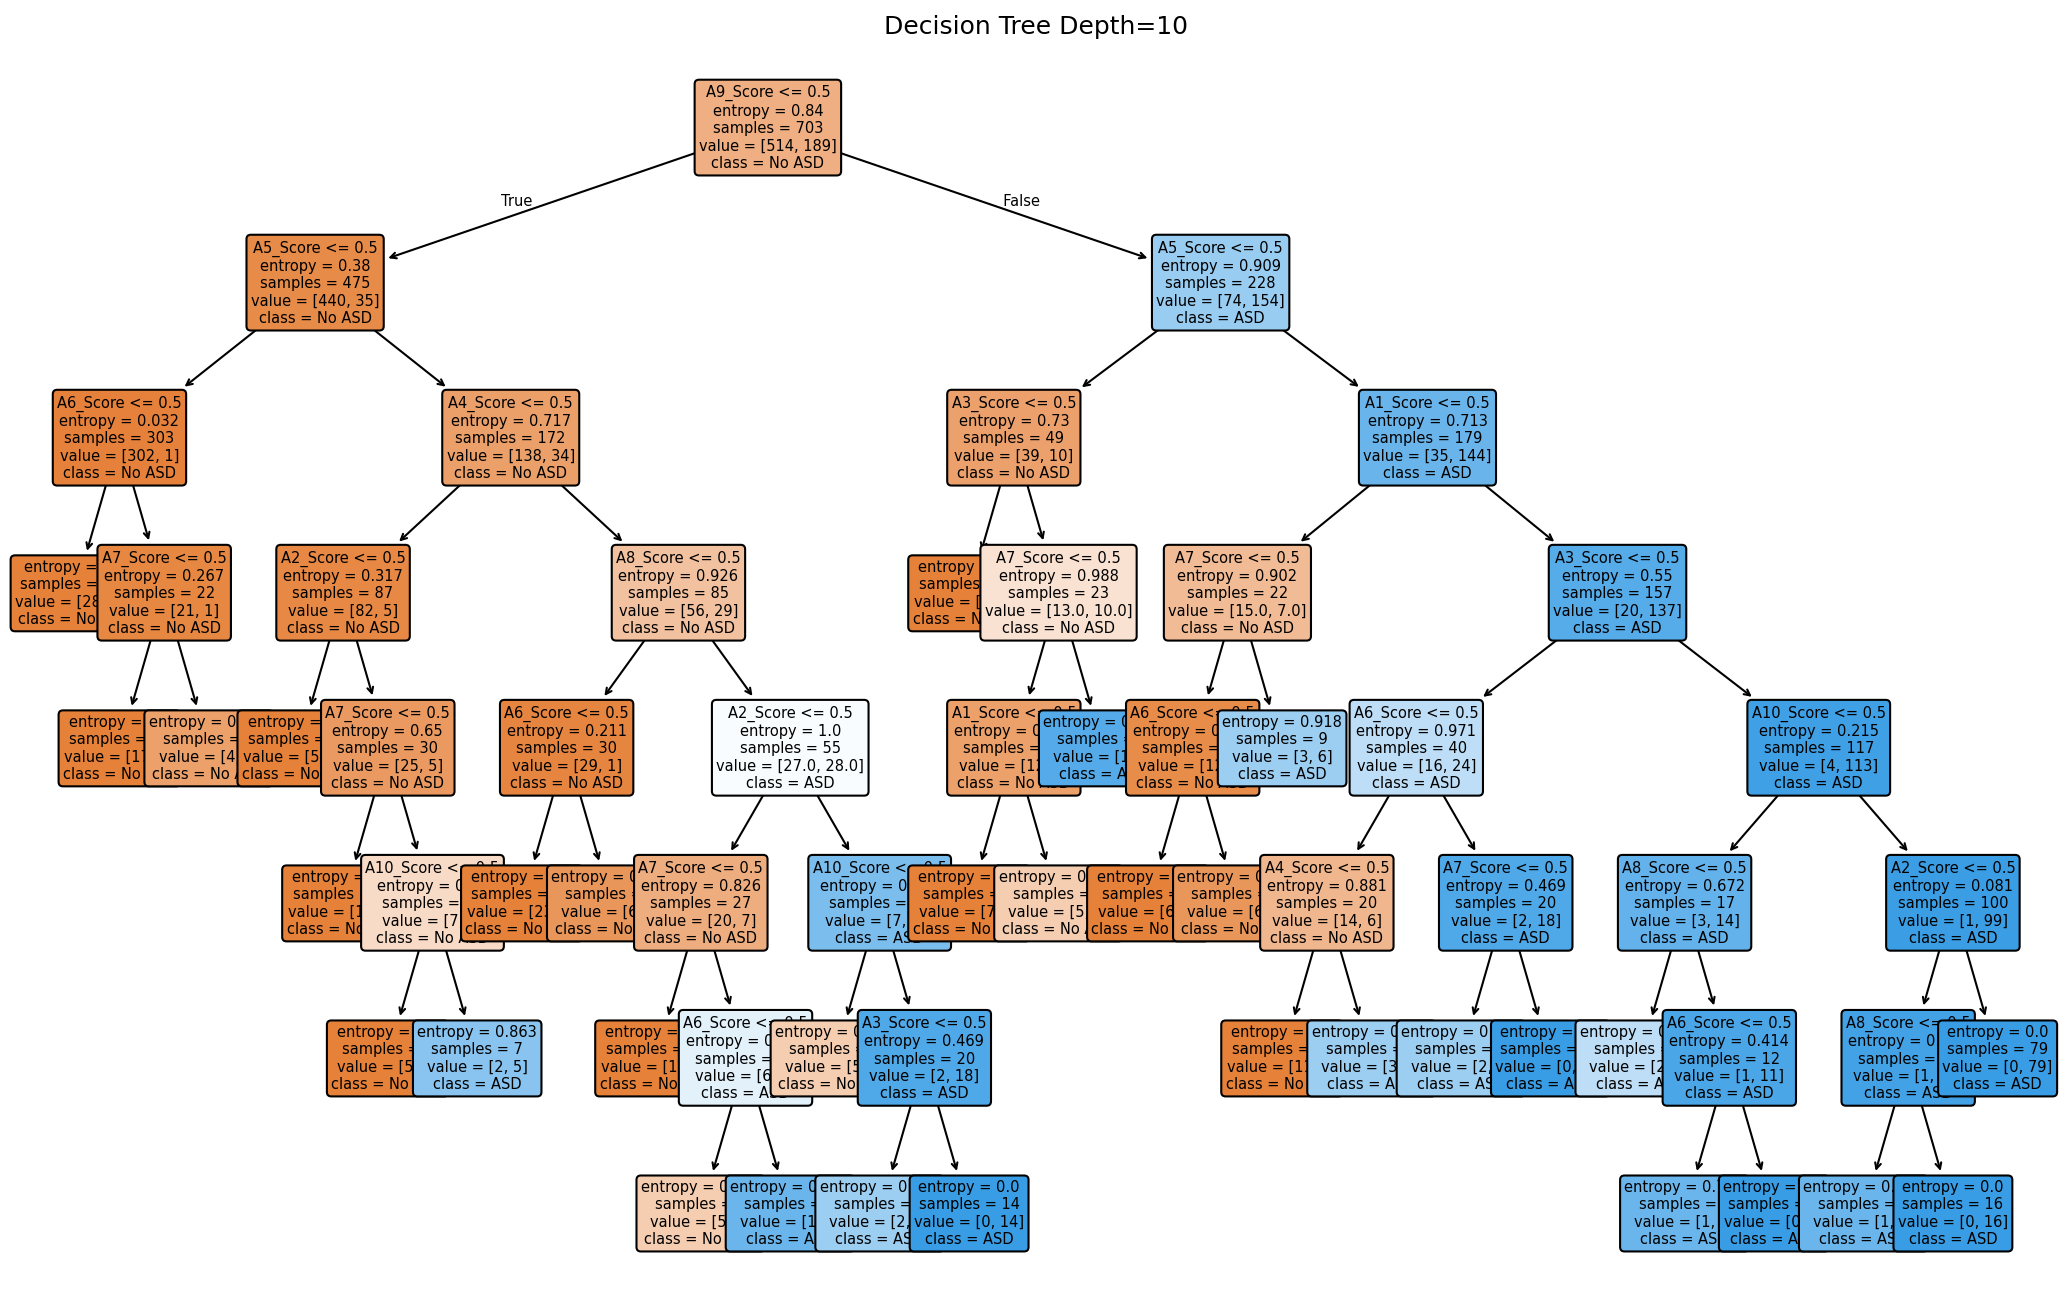
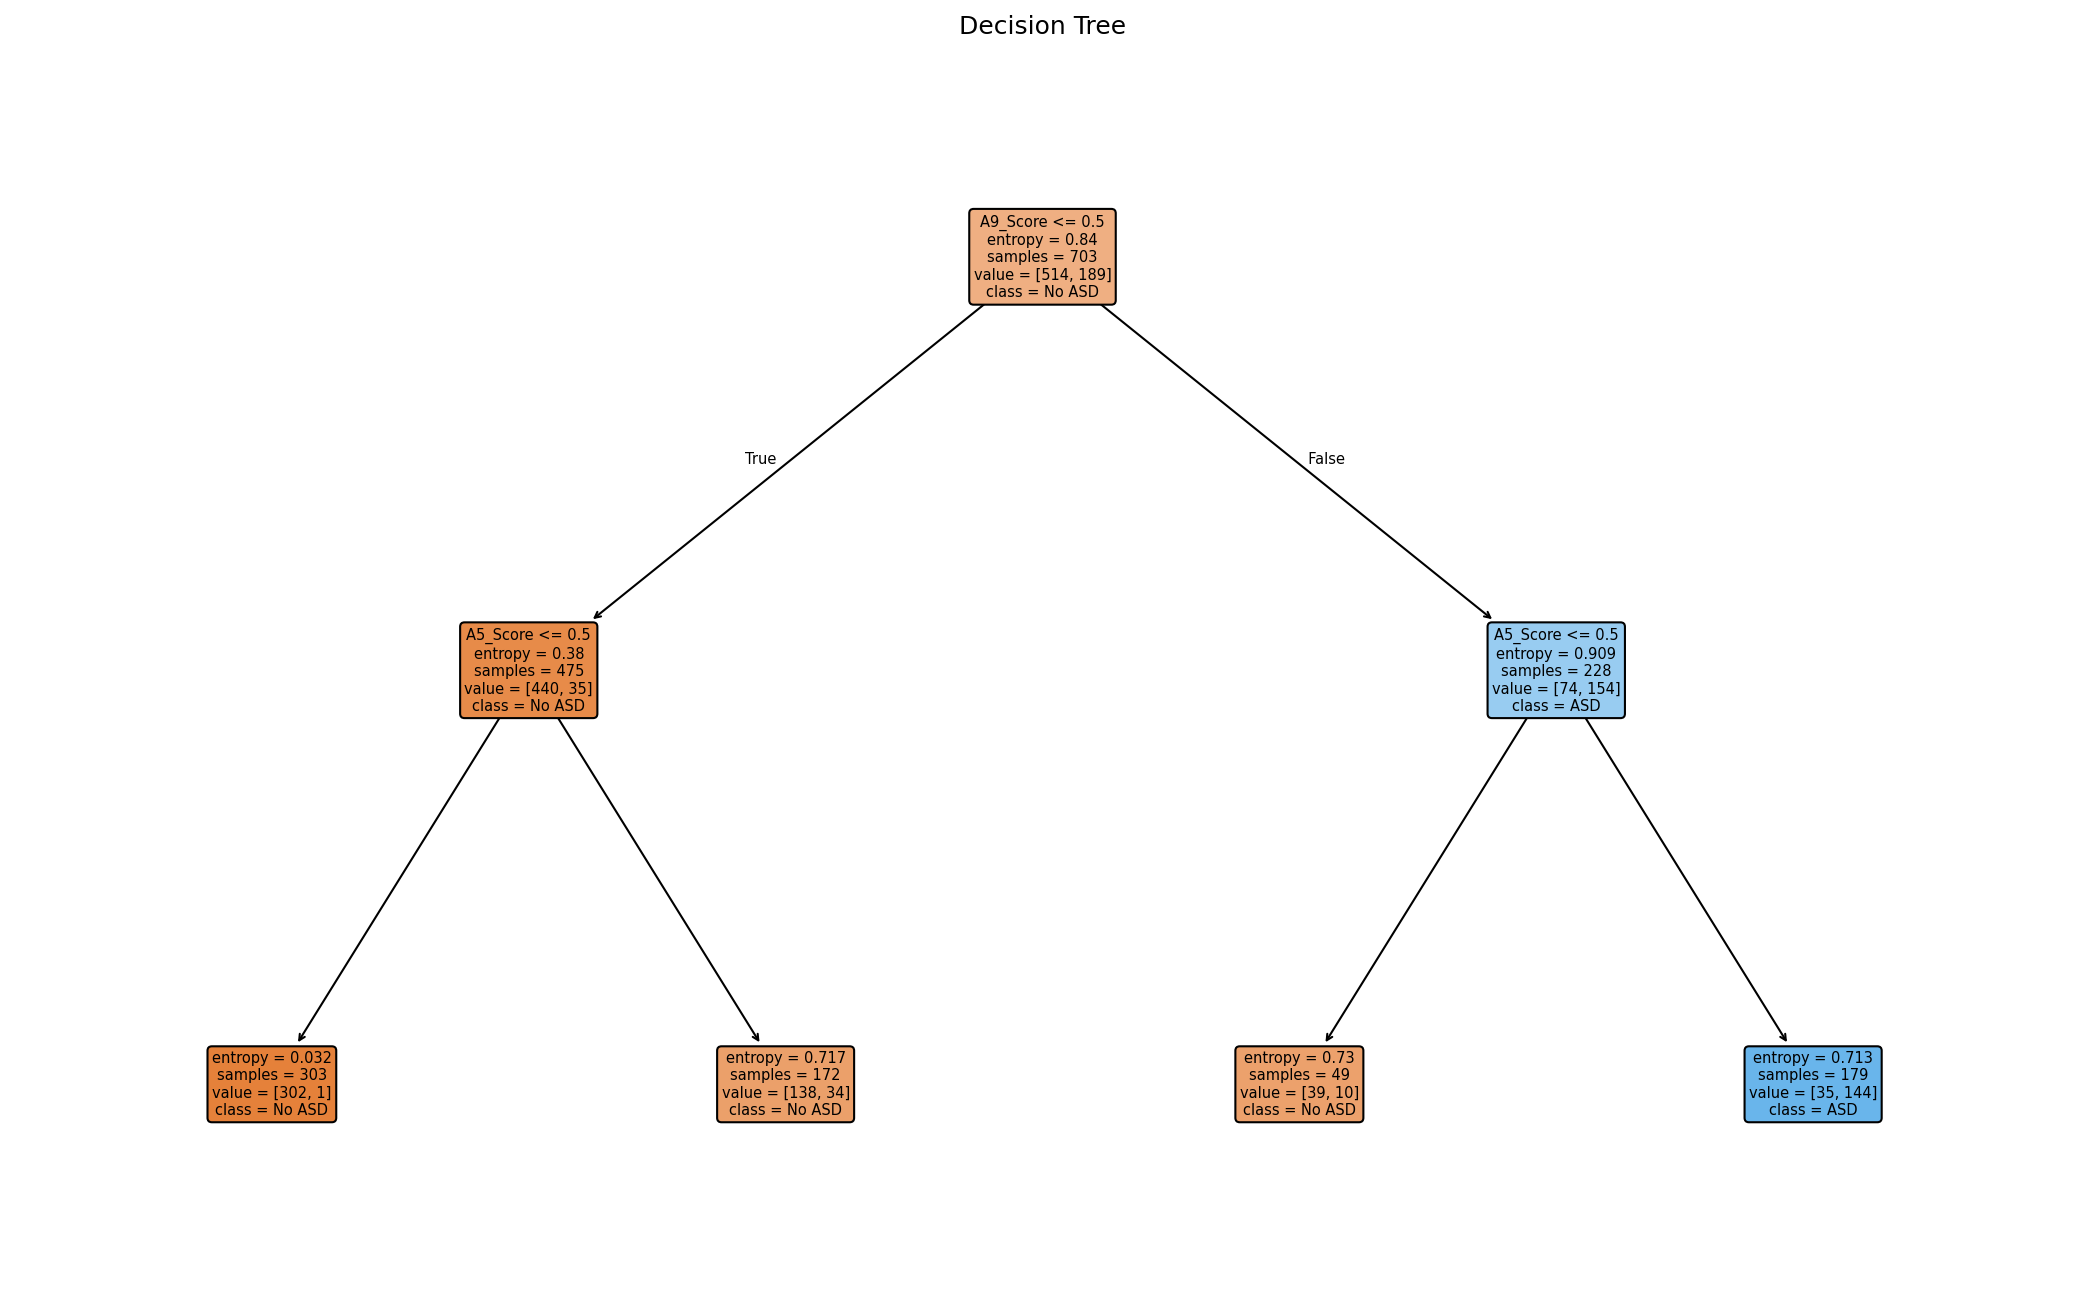
d

diff --git a/analysisGallery.html b/analysisGallery.html
@@ -463,14 +463,14 @@ plt.savefig('figures/tree_two_deep.png', dpi=180, bbox_inches='tight')
       </div>
       
       <div class="card">
-        <h2>Decision Tree Depth 10</h2>
-        <p class="hint"></p>
-        <img class="img" src="figures/tree_depth10_noresult.png" alt="Decision Tree depth 10" />
+        <h2>Decision Tree</h2>
+        <p class="hint">Trained on just two screening items to show simple rule structure.</p>
+        <img class="img" src="figures/tree_depth10_noresult.png" alt="Decision Tree depth 10 (A5 & A9 only)" />
         <div>
           <b>Insights:</b>
           <ul class="bullets">
-            <li>Forces the tree to use individual A1–A10 items, revealing cooler combinations.</li>
-            <li>Expect more levels and non‑pure leaves</li>
+            <li>Uses only A5 and A9 responses, making splits easy to interpret.</li>
+            <li>Expect several levels and non‑pure leaves; this reflects real overlap in answers.</li>
           </ul>
         </div>
       </div>

diff --git a/generate_two_deep_tree.py b/generate_two_deep_tree.py
@@ -171,22 +171,25 @@ def main():
     plt.close()
     print(f"Wrote {out_path10}")
 
-    # Generate a deeper tree (depth=10) EXCLUDING 'result' to avoid a trivial single split
-    clf10_nr = DecisionTreeClassifier(
+    # Generate a deeper tree (depth=10) using ONLY A5 and A9 features
+    a5_col = a_only_cols[4]  # A5
+    a9_col = a_only_cols[8]  # A9
+    X_a59 = X_df_a_only[[a5_col, a9_col]].values
+    clf10_a59 = DecisionTreeClassifier(
         max_depth=10,
         criterion="entropy",
         class_weight=None,
         min_samples_leaf=5,
         random_state=42,
     )
-    clf10_nr.fit(X_a, y)
+    clf10_a59.fit(X_a59, y)
     out_path10_nr = os.path.join(figures_dir, "tree_depth10_noresult.png")
     fig = plt.figure(figsize=(14, 9), facecolor="white")
     ax = plt.gca()
     ax.set_facecolor("white")
     plot_tree(
-        clf10_nr,
-        feature_names=a_only_cols,
+        clf10_a59,
+        feature_names=[a5_col, a9_col],
         class_names=["No ASD", "ASD"],
         impurity=True,
         proportion=False,
@@ -195,7 +198,7 @@ def main():
         fontsize=7,
         max_depth=10,
     )
-    plt.title("Decision Tre Depth=10", pad=8)
+    plt.title("Decision Tree", pad=8)
     plt.tight_layout(rect=[0, 0, 1, 0.98])
     plt.savefig(out_path10_nr, dpi=150, bbox_inches="tight")
     plt.close()
